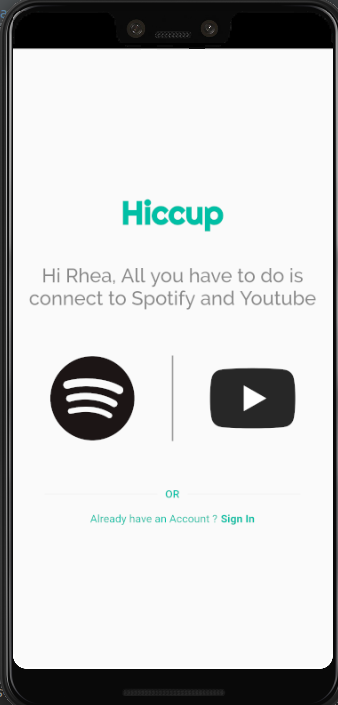
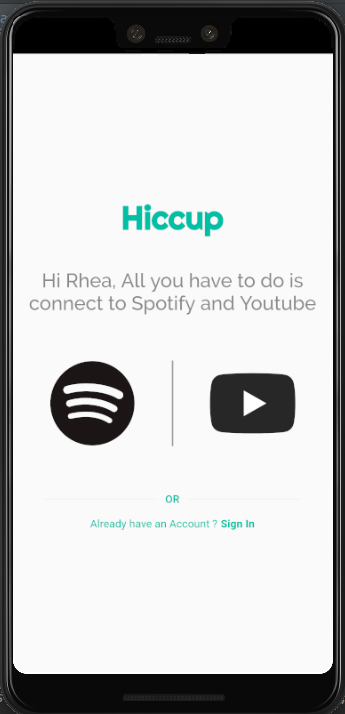
fixed cropping

diff --git a/flutter_service_worker.js b/flutter_service_worker.js
@@ -3,7 +3,7 @@ const MANIFEST = 'flutter-app-manifest';
 const TEMP = 'flutter-temp-cache';
 const CACHE_NAME = 'flutter-app-cache';
 const RESOURCES = {
-  "assets/assets/images/match-phone.png": "b5437415cb6ff00a72372d5acc56e3ce",
+  "assets/assets/images/match-phone.png": "ce9ef79a2b245459104e43497bb3fac5",
 "assets/assets/images/auth.png": "2df3079310c27fea6c37abd3d2e31622",
 "assets/assets/images/creep.png": "5ffeaea0efd6cee71b82a4bf48e186d5",
 "assets/assets/images/chat.png": "b23a8fddc6bd699af98bf61b9ac033d1",
